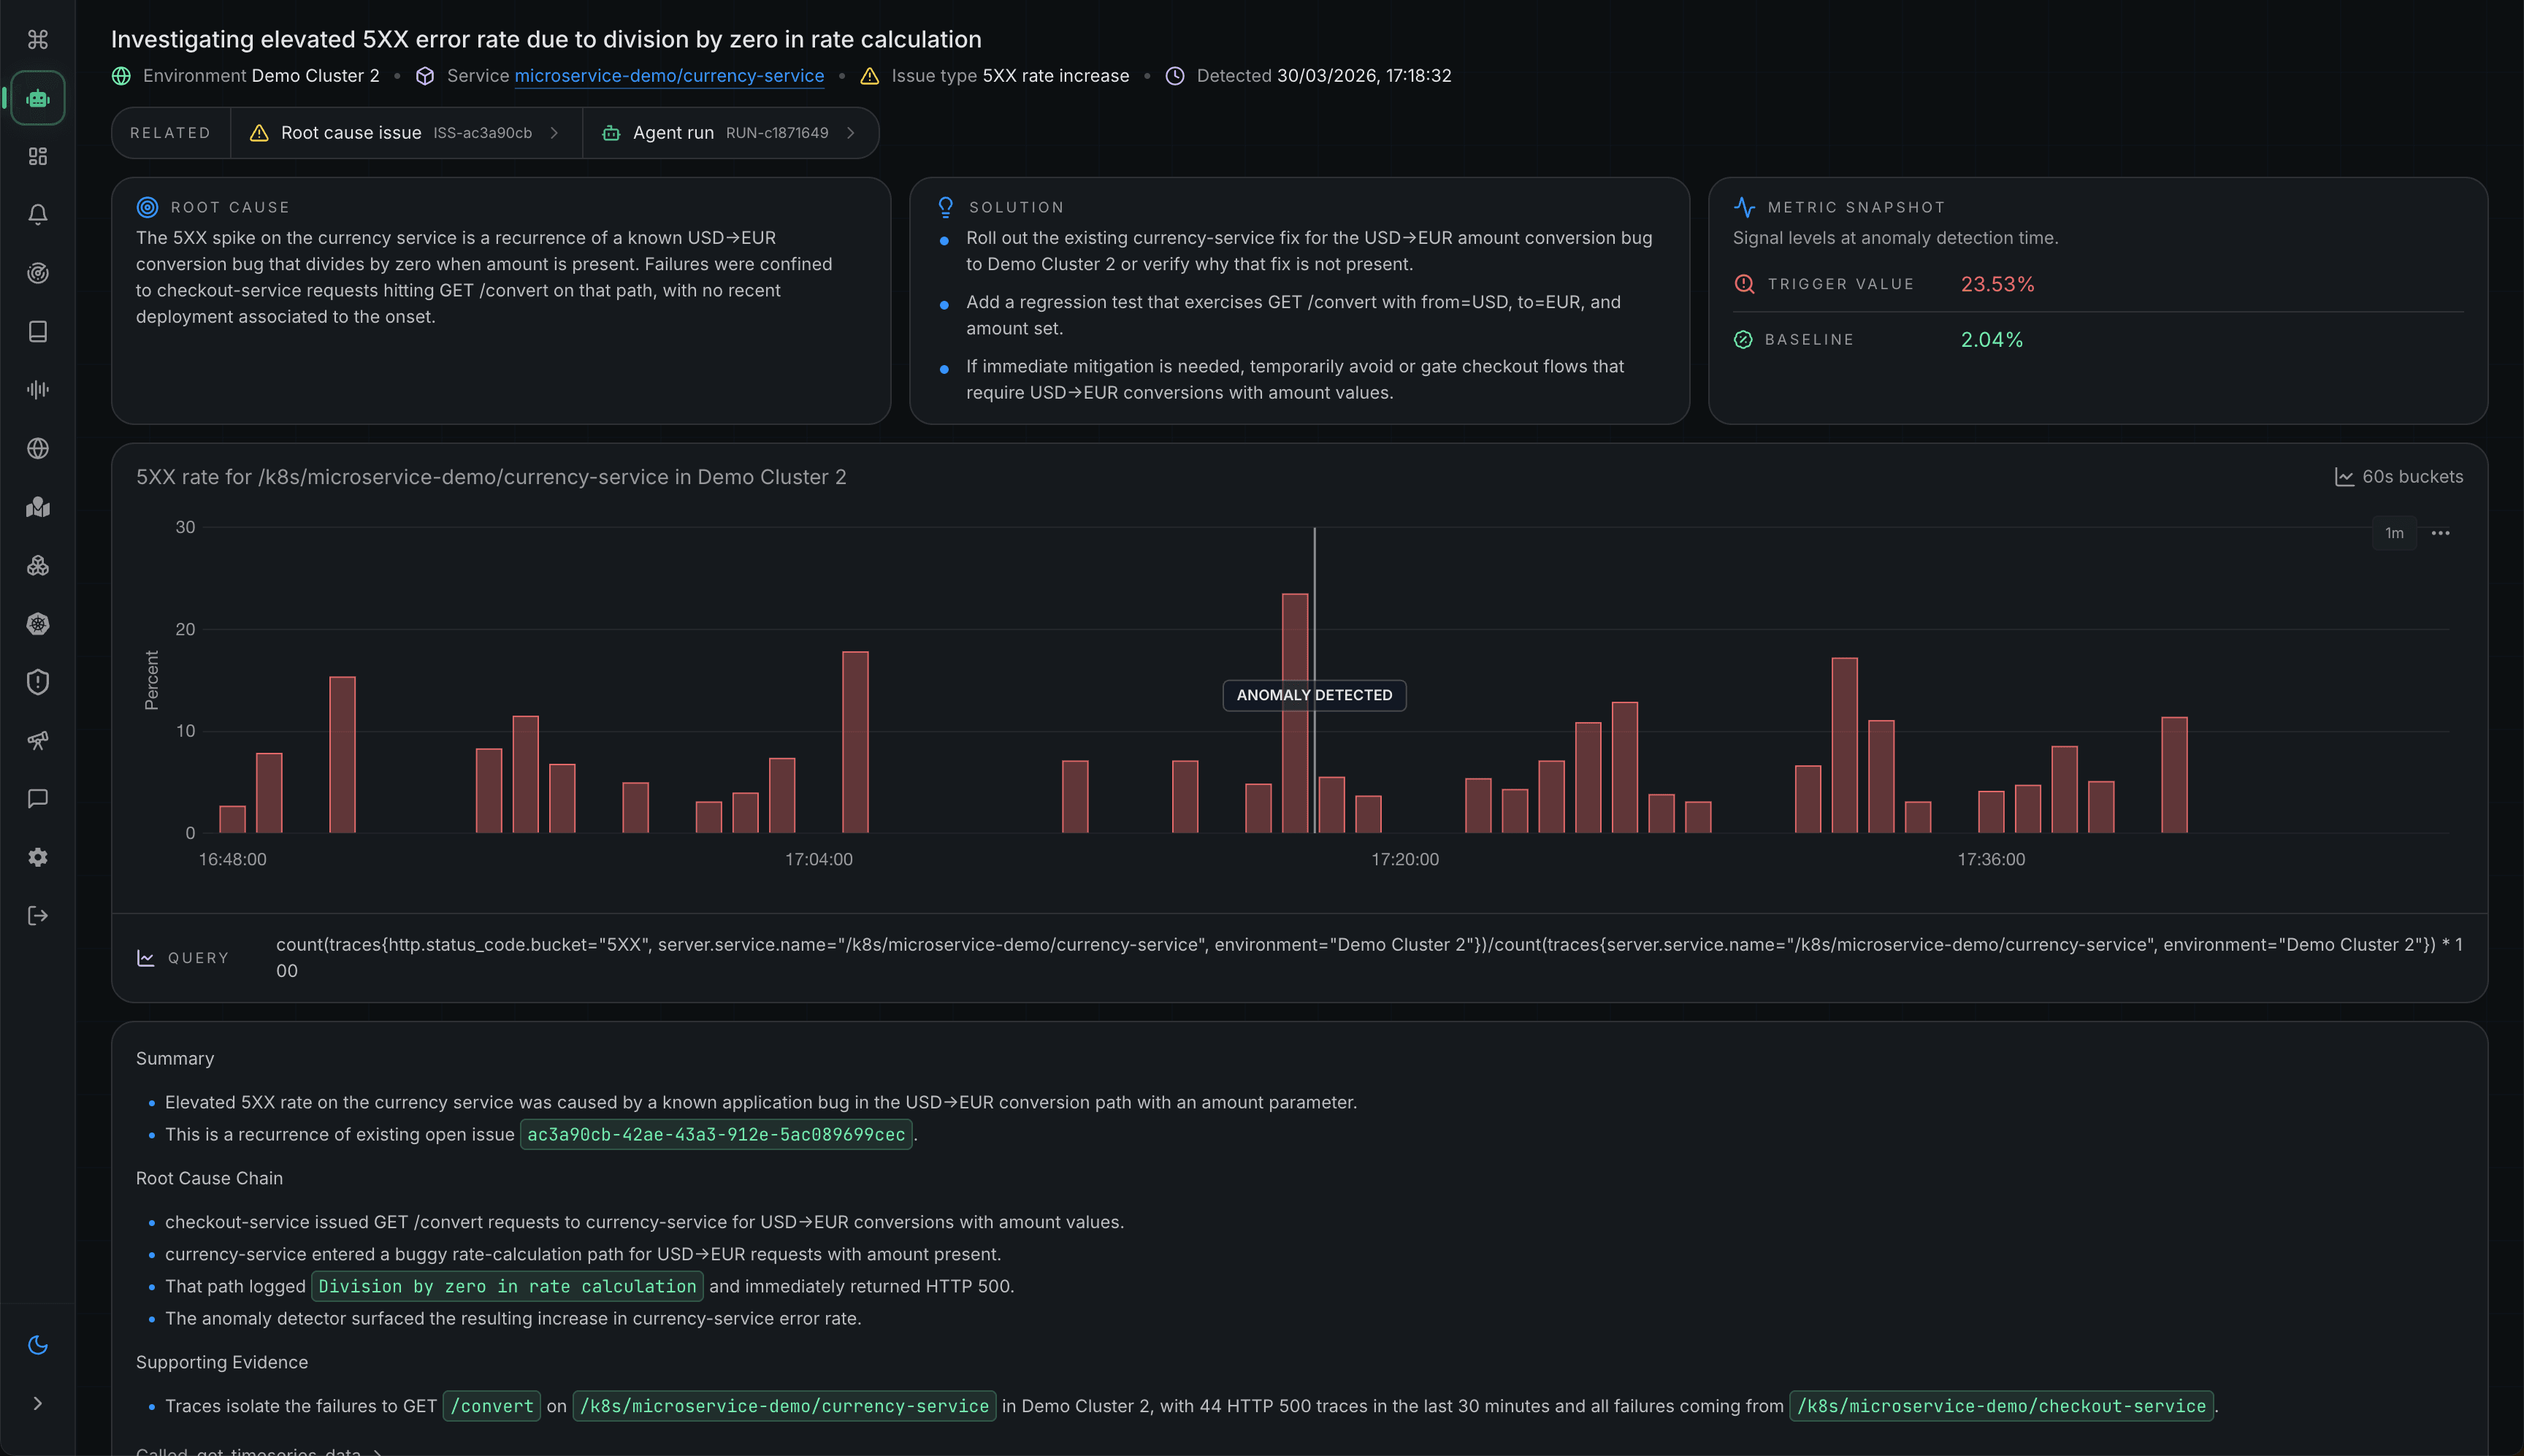
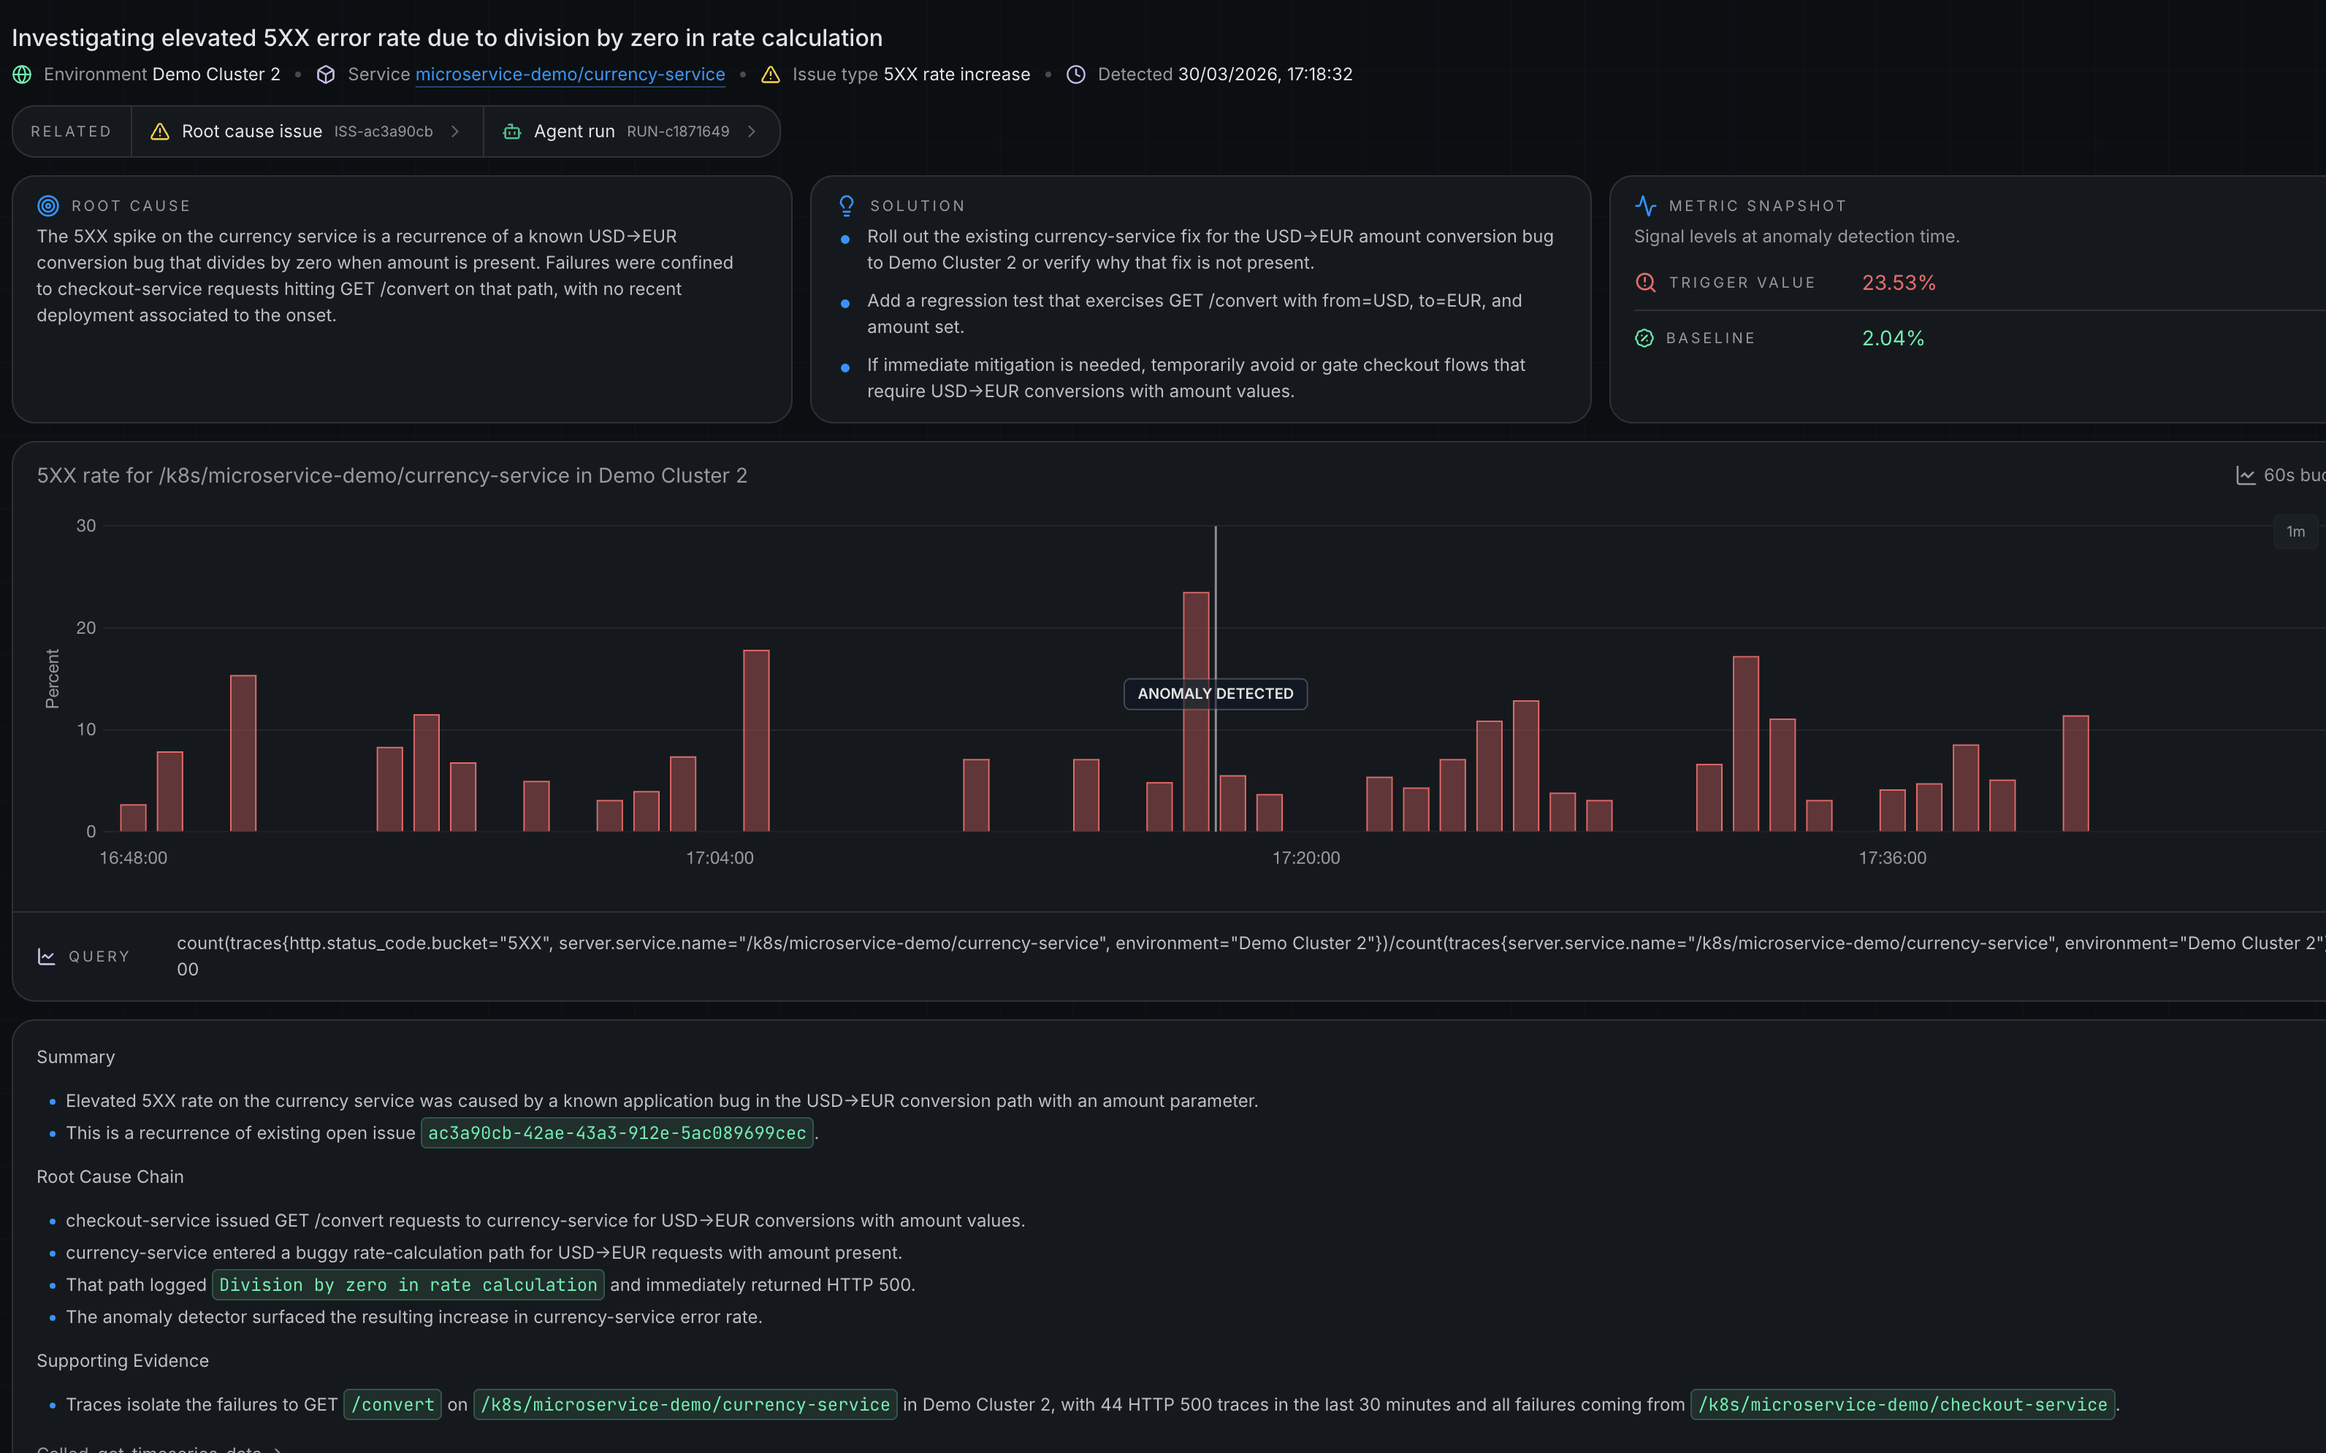
Complete latest catalog media integration

diff --git a/src/lib/catalog/catalog.test.ts b/src/lib/catalog/catalog.test.ts
@@ -19,7 +19,7 @@ describe("catalog loaders", () => {
     const holmes = getProductBySlug("holmesgpt");
     const unmappedProduct = getProductBySlug("agent-sre");
 
-    expect(products).toHaveLength(77);
+    expect(products).toHaveLength(80);
     expect(holmes?.companySlug).toBe("robusta");
     expect(holmes?.editorialState).toBe("unreviewed");
     expect(holmes?.lastReviewed).toBeNull();

diff --git a/README.md b/README.md
@@ -45,7 +45,7 @@ Jump to: [Incident Response](#incident-response) | [Observability](#observabilit
 | [Resolve AI](https://resolve.ai/product/overview) | Resolve AI is a production-operations platform with agents for on-call triage, incident investigation, and recurring operational work. Its agents work across code, infrastructure, telemetry, and knowledge using evidence-based, multi-agent investigations. | Multi | [<img alt="Website" src="assets/icons/website.svg" width="16" />](https://resolve.ai/product/overview) [<img alt="LinkedIn" src="assets/icons/linkedin.svg" width="16" />](https://www.linkedin.com/company/resolveai/) [<img alt="X" src="assets/icons/x.svg" width="16" />](https://x.com/resolveai/) |
 | [RobinRelay](https://robinrelay.ai) | AI on-call copilot for Slack that cuts MTTR by 75%. Reduce alert noise, recall past incident fixes, and save thousands of engineering hours yearly. | SaaS | [<img alt="Website" src="assets/icons/website.svg" width="16" />](https://robinrelay.ai) [<img alt="LinkedIn" src="assets/icons/linkedin.svg" width="16" />](https://www.linkedin.com/company/robinrelay) |
 | [Rootly](https://rootly.com) | The all-in-one incident management platform, including AI SRE agents—built for fast-moving engineering teams to detect, manage, learn from, and resolve incidents faster. | SaaS | [<img alt="Website" src="assets/icons/website.svg" width="16" />](https://rootly.com) [<img alt="LinkedIn" src="assets/icons/linkedin.svg" width="16" />](https://www.linkedin.com/company/rootlyhq) |
-| [RubixKube](https://rubixkube.ai) | AI-native Site Reliability Intelligence platform that helps engineering teams protect revenue, customer trust, and engineering focus by detecting infrastructure failures, risky deployments, and slowdowns before they become customer-impacting incidents. | Multi | [<img alt="Website" src="assets/icons/website.svg" width="16" />](https://rubixkube.ai) [<img alt="LinkedIn" src="assets/icons/linkedin.svg" width="16" />](https://www.linkedin.com/company/rubixkube) |
+| [RubixKube](https://rubixkube.ai) | AI-native Site Reliability Intelligence platform that helps engineering teams protect revenue, customer trust, and engineering focus by detecting infrastructure failures, risky deployments, and slowdowns before they become customer-impacting incidents. | Multi | [<img alt="Website" src="assets/icons/website.svg" width="16" />](https://rubixkube.ai) [<img alt="GitHub" src="assets/icons/github.svg" width="16" />](https://github.com/rubixkube-io) [<img alt="LinkedIn" src="assets/icons/linkedin.svg" width="16" />](https://www.linkedin.com/company/rubixkube) |
 | [RunLLM](https://www.runllm.com) | The AI SRE for mission-critical systems that delivers transparent investigations, evidence-backed root cause analysis, and continuous runbook improvement. | SaaS | [<img alt="Website" src="assets/icons/website.svg" width="16" />](https://www.runllm.com) [<img alt="LinkedIn" src="assets/icons/linkedin.svg" width="16" />](https://www.linkedin.com/company/runllm) |
 | [Scoutflo](https://scoutflo.com) | Your AI SRE for incident response and debugging. AI handles alerts, finds root causes, and fixes issues in minutes. | SaaS | [<img alt="Website" src="assets/icons/website.svg" width="16" />](https://scoutflo.com) [<img alt="LinkedIn" src="assets/icons/linkedin.svg" width="16" />](https://www.linkedin.com/company/scoutflo) |
 | [Sherlocks.ai](https://sherlocks.ai) | Cut MTTR by 10x with AI SREs that investigate incidents 24/7, automate root cause analysis, and prevent outages before they happen. Try Sherlocks.ai free. | SaaS | [<img alt="Website" src="assets/icons/website.svg" width="16" />](https://sherlocks.ai) [<img alt="LinkedIn" src="assets/icons/linkedin.svg" width="16" />](https://www.linkedin.com/company/sherlocks-ai) |
